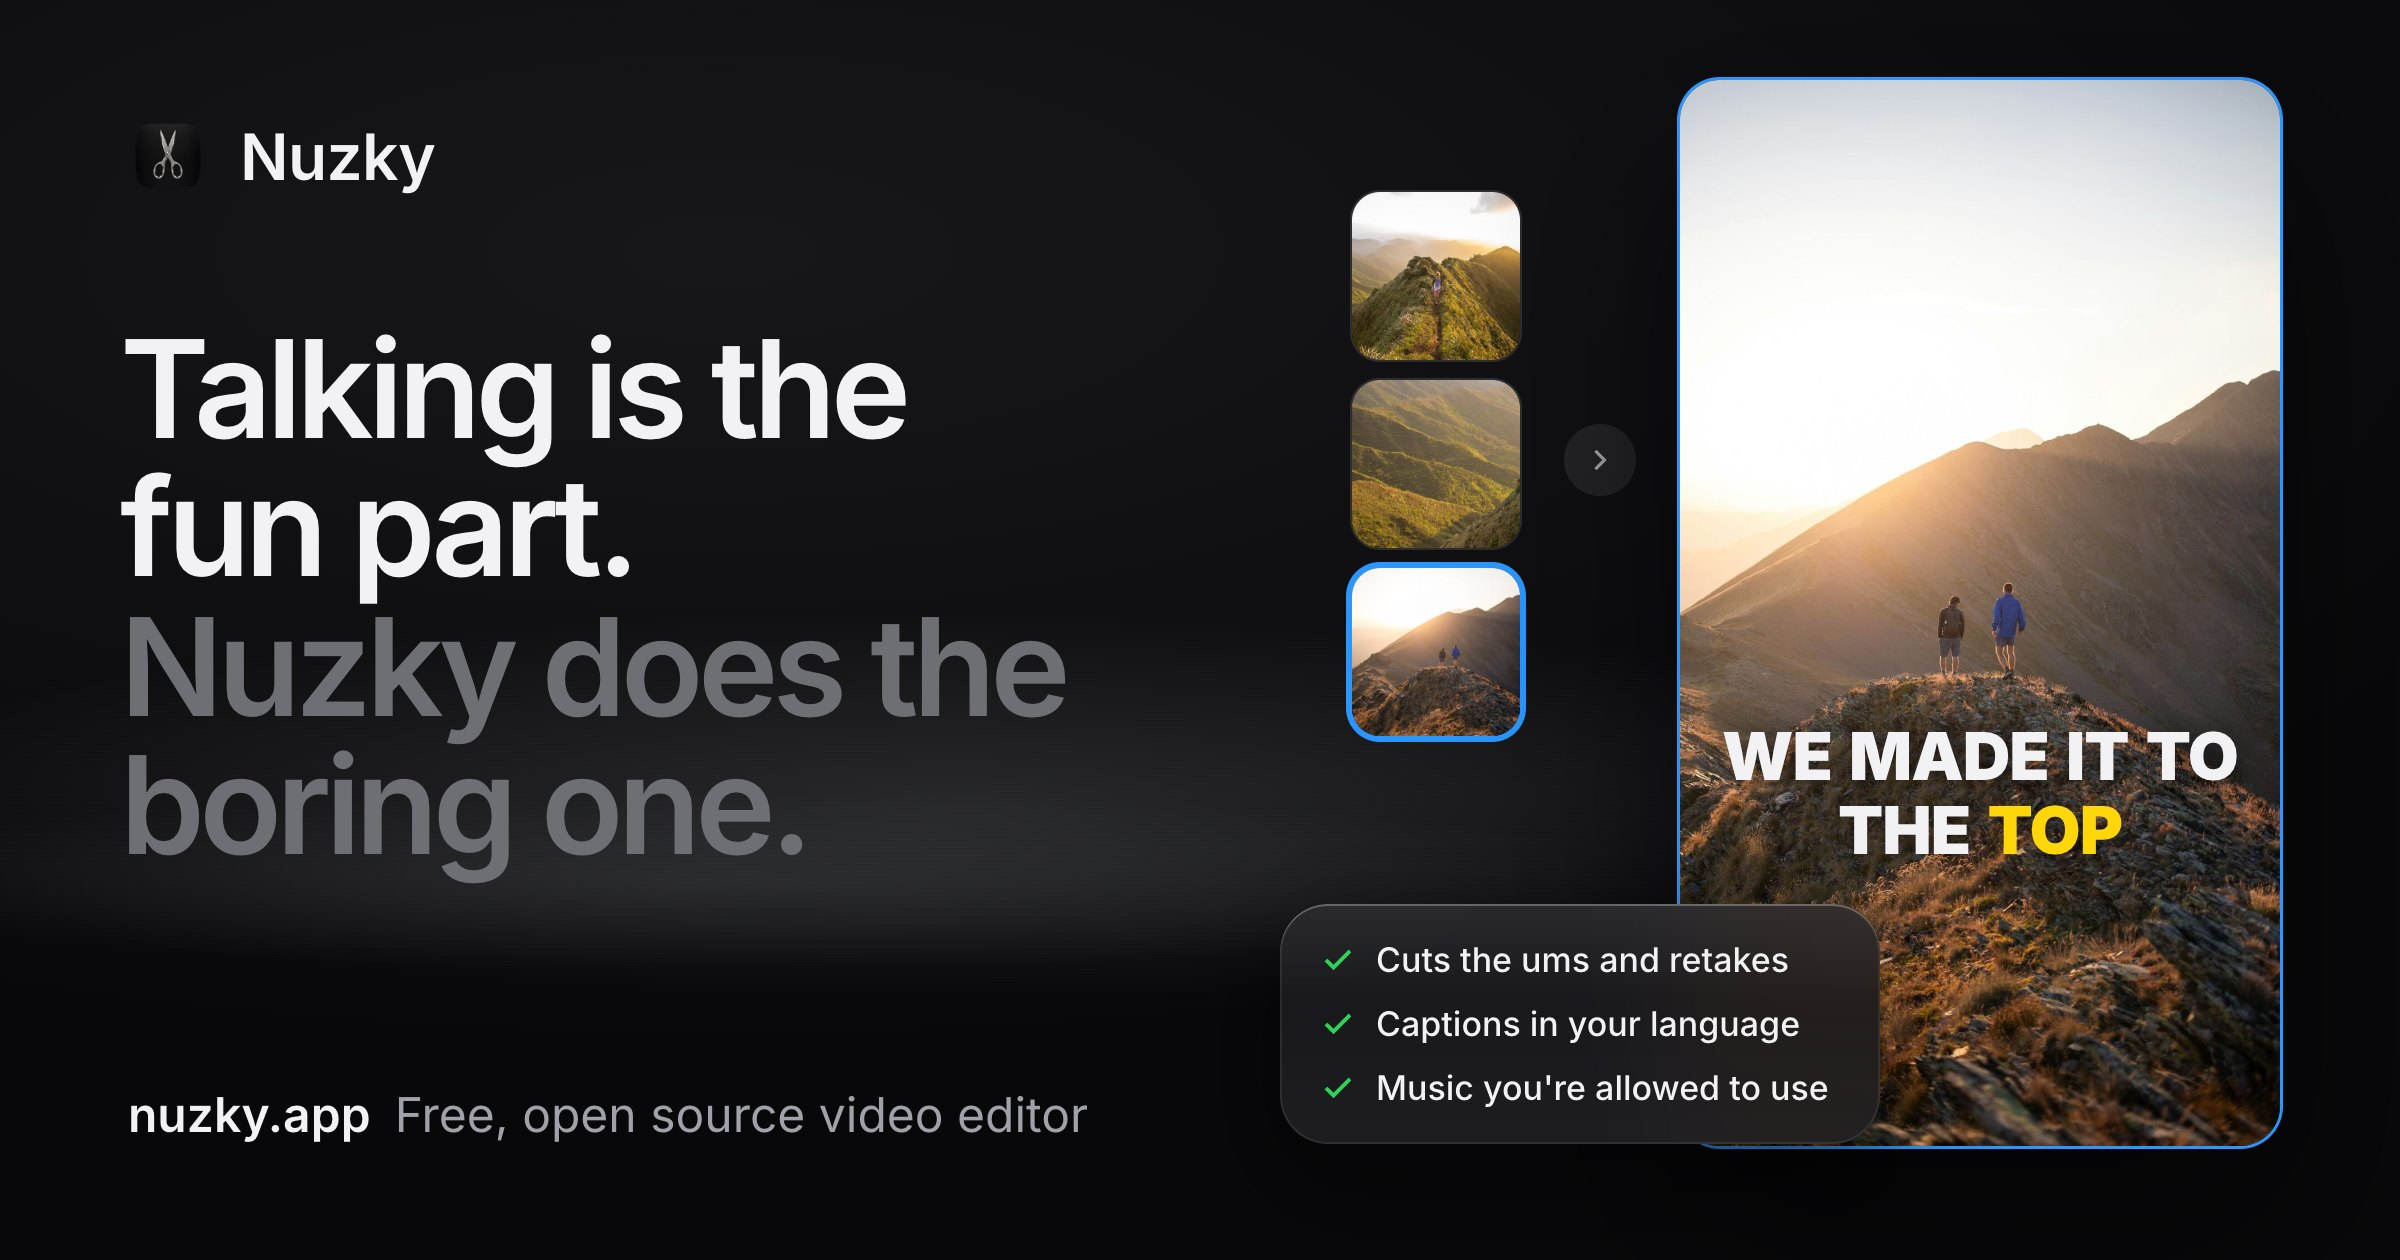
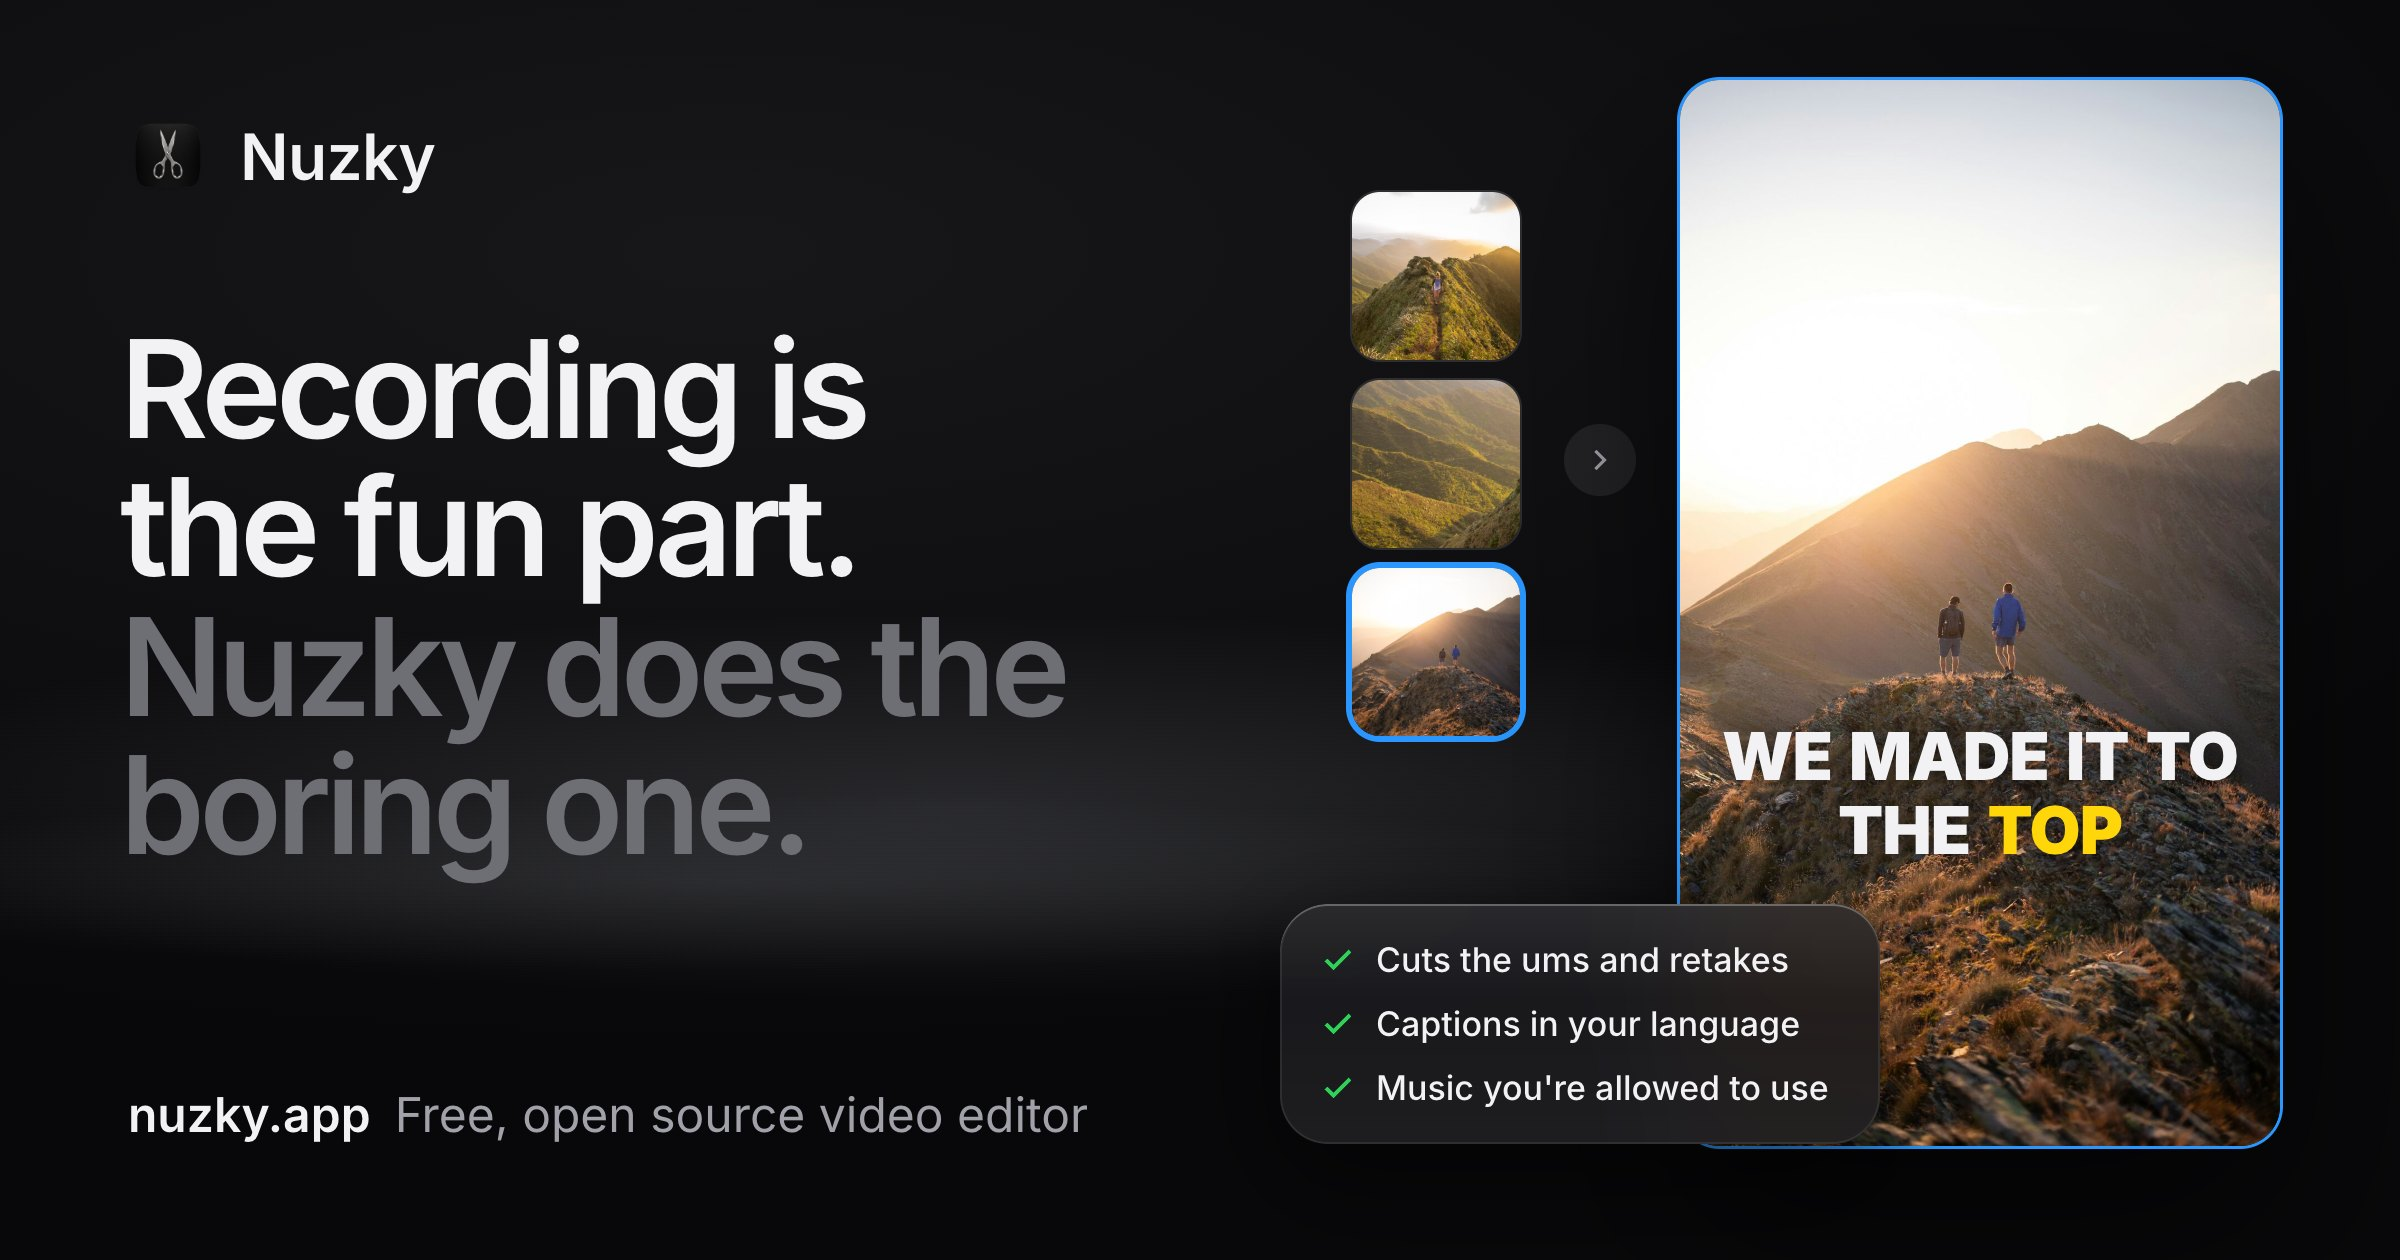
feat(site): open with "Recording is the fun part" so the headline fits every video

Changed region(s): [[0.0312, 0.2476, 0.375, 0.4952]]

diff --git a/site/app/layout.tsx b/site/app/layout.tsx
@@ -10,7 +10,7 @@ const inter = Inter({ subsets: ["latin"], variable: "--font-inter", display: "sw
 const mono = JetBrains_Mono({ subsets: ["latin"], variable: "--font-mono-face", display: "swap", preload: false });
 
 // Search results show the title, which names what people search for. Shares show the slogan.
-const slogan = "Talking is the fun part. Nuzky does the boring one.";
+const slogan = "Recording is the fun part. Nuzky does the boring one.";
 
 export const metadata: Metadata = {
   metadataBase: new URL(url),

diff --git a/site/lib/markdown.ts b/site/lib/markdown.ts
@@ -34,7 +34,7 @@ ${list(features)}
 
 ## From your clips to a reel
 
-Talking is the fun part. Nuzky does the boring one.
+Recording is the fun part. Nuzky does the boring one.
 
 1. Your videos and photos. Nuzky opens video from any phone or camera, including HEVC and variable frame rate.
 2. Cuts the ums and retakes. Your ChatGPT or Claude keeps the best take and cuts the ums and long pauses while you watch. One undo takes it all back.

diff --git a/site/components/Hero.tsx b/site/components/Hero.tsx
@@ -267,7 +267,7 @@ export function Hero() {
     <section ref={section} className="relative">
       <div className="relative z-10 flex flex-col items-center px-5 pt-12 text-center sm:pt-24">
         <h1 className="heading-xl">
-          Talking is the fun part.
+          Recording is the fun part.
           <br />
           <span className="text-subtle">Nuzky does the boring one.</span>
         </h1>
